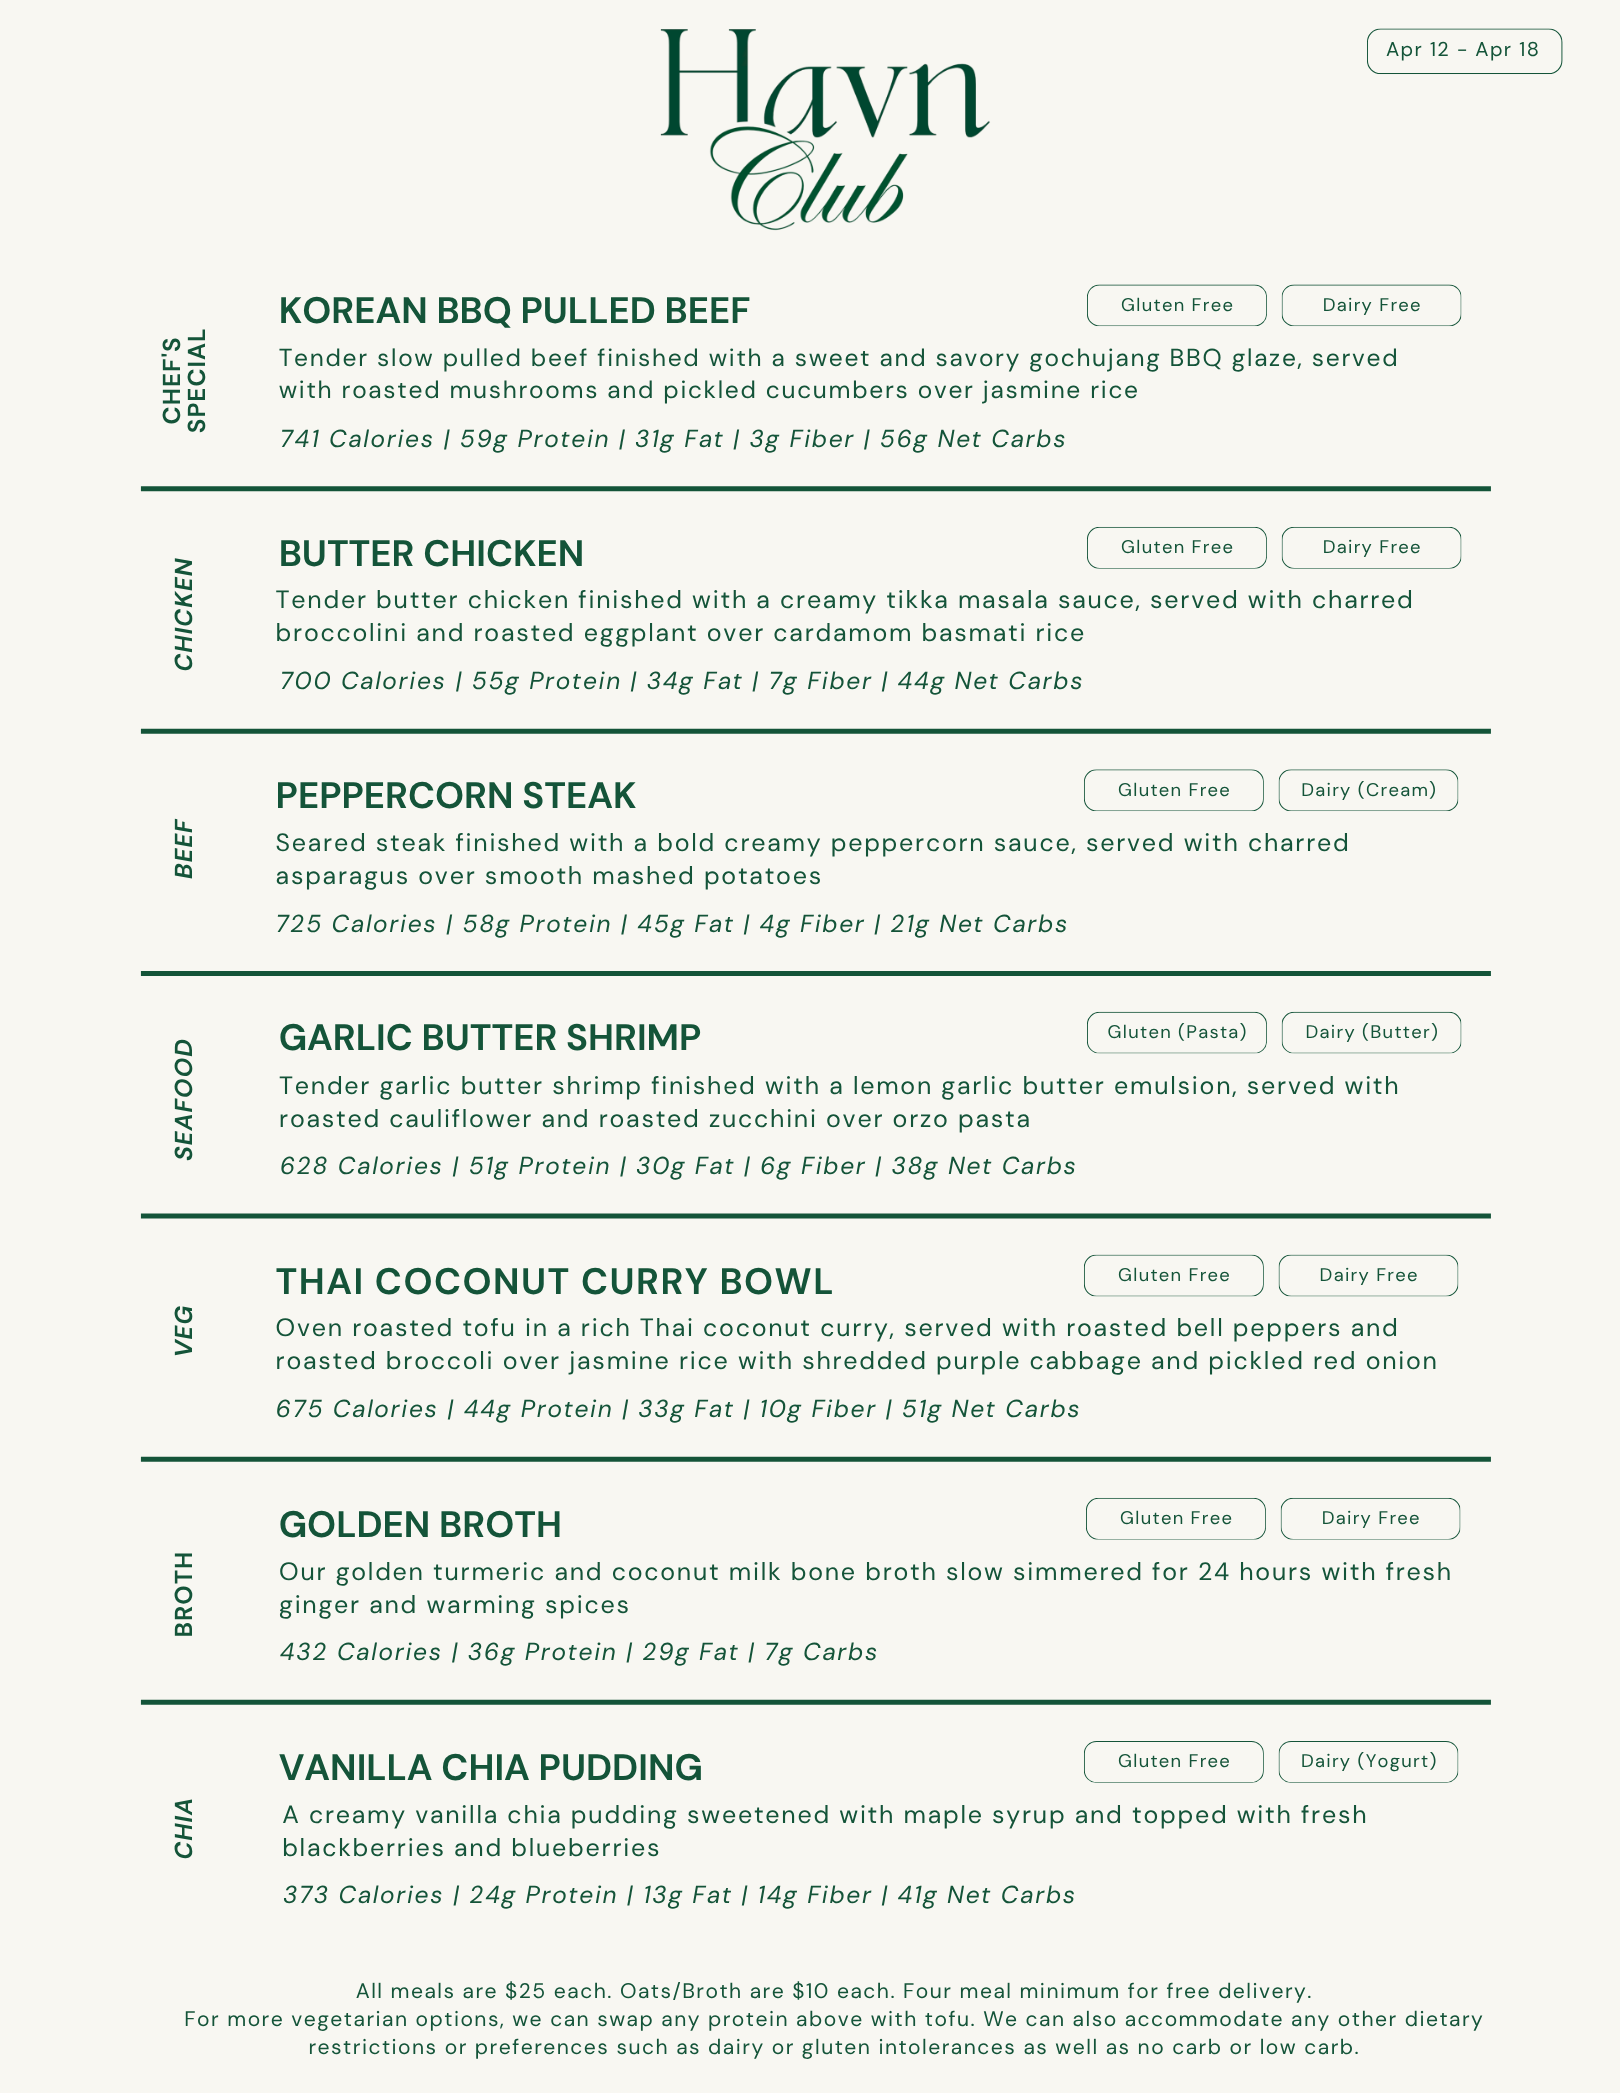
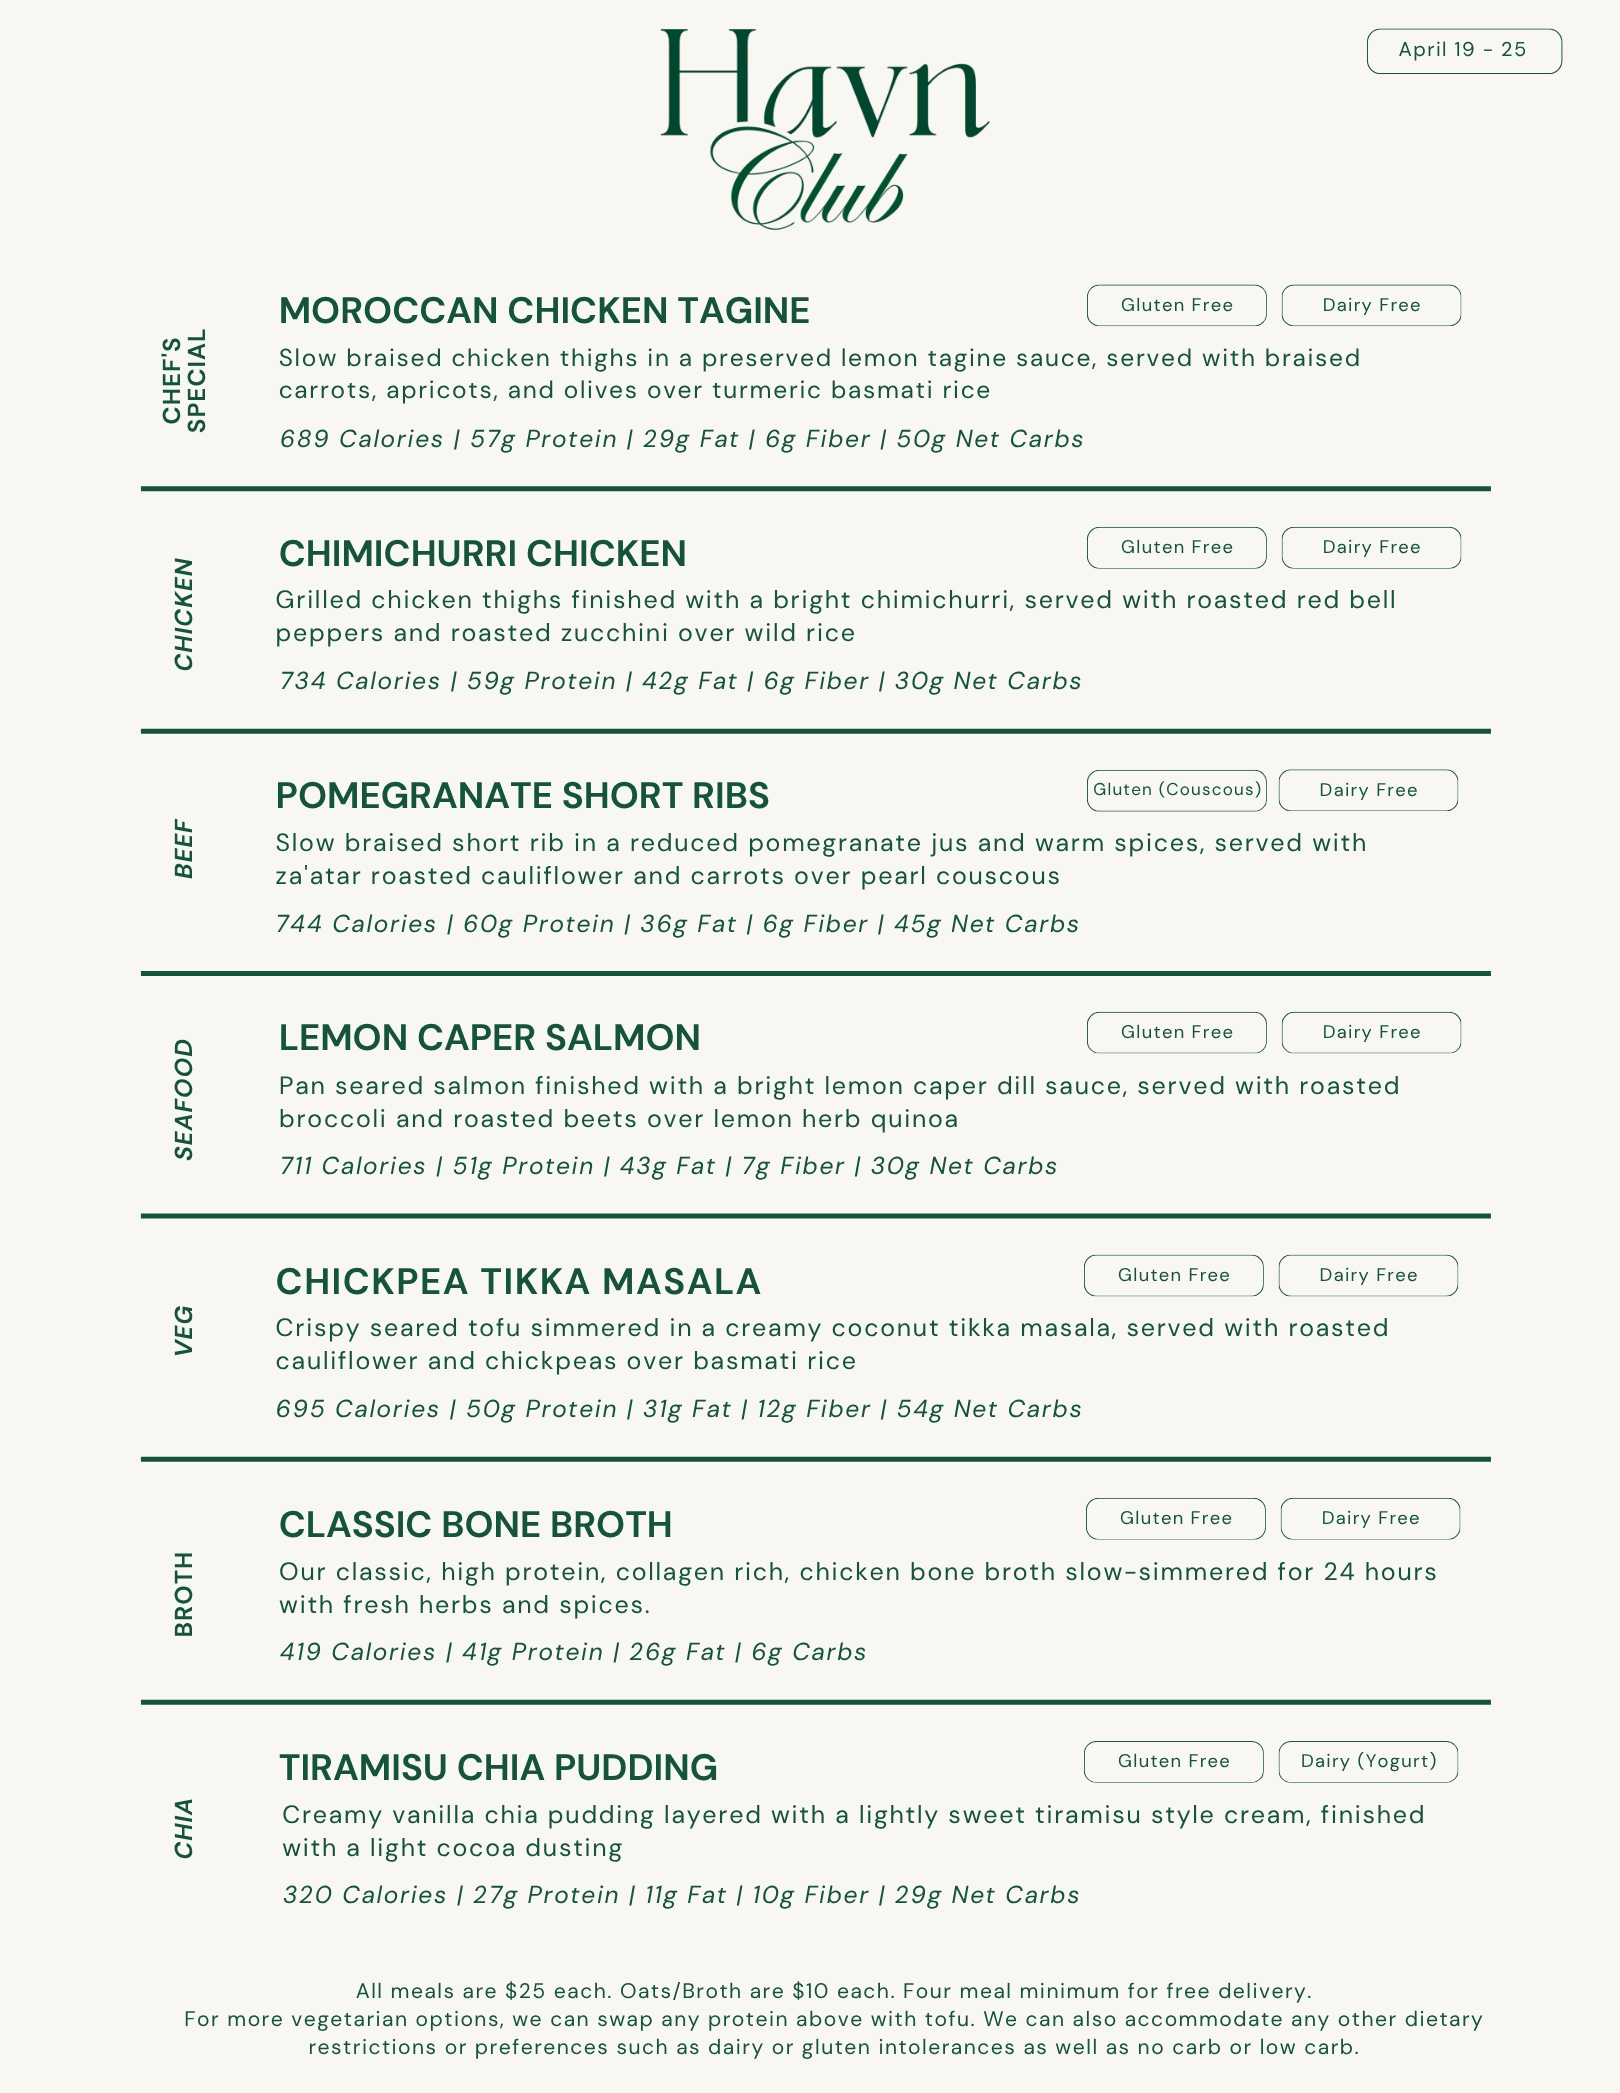
Update menu.havnclub.com for April 19th week
- Swap all 7 dishes: Moroccan Chicken Tagine (Chef), Chimichurri Chicken,
  Pomegranate Short Ribs, Lemon Caper Salmon, Chickpea Tikka Masala,
  Classic Bone Broth, Tiramisu Chia Pudding (Biscoff-free)
- Update date range header to April 19 - 25
- Update macros, descriptions, allergen tags in both DOM and JS data
- Replace menu-preview.jpg/.png with new Canva export
- Add Apr 19th Menu File folder with CSV + image

diff --git a/index.html b/index.html
@@ -1080,7 +1080,7 @@
             </div>
             <div class="header-info">
               <span class="header-name">Havn Club</span>
-              <span class="header-meta">Apr 12 – Apr 18</span>
+              <span class="header-meta">April 19 – 25</span>
             </div>
           </div>
           <button class="help-btn" id="helpBtn">?</button>
@@ -1109,13 +1109,13 @@
           <div class="menu-item" data-key="special">
             <div class="item-cat"><span>Special</span></div>
             <div class="item-info">
-              <h3 class="item-name">Korean BBQ Pulled Beef</h3>
-              <p class="item-desc">Slow Pulled Beef with a Gochujang BBQ Glaze and Roasted Mushrooms and Pickled Cucumbers over Jasmine Rice</p>
+              <h3 class="item-name">Moroccan Chicken Tagine</h3>
+              <p class="item-desc">Slow Braised Chicken Thighs with a Moroccan Tagine Sauce and Braised Carrots, Dried Apricots, and Green Olives over Turmeric Basmati Rice</p>
               <div class="item-bottom">
                 <div class="item-macros">
-                  <span>741 cal</span>
+                  <span>689 cal</span>
                   <span class="dot"></span>
-                  <span>59g protein</span>
+                  <span>57g protein</span>
                 </div>
                 <div class="stepper">
                   <button class="stepper-btn minus" disabled>−</button>
@@ -1129,13 +1129,13 @@
           <div class="menu-item" data-key="chicken">
             <div class="item-cat"><span>Chicken</span></div>
             <div class="item-info">
-              <h3 class="item-name">Butter Chicken</h3>
-              <p class="item-desc">Butter Chicken with a Creamy Tikka Masala Sauce and Charred Broccolini and Roasted Eggplant over Cardamom Basmati Rice</p>
+              <h3 class="item-name">Chimichurri Chicken</h3>
+              <p class="item-desc">Grilled Chicken Thighs with a Chimichurri and Roasted Red Bell Peppers and Zucchini over Wild Rice</p>
               <div class="item-bottom">
                 <div class="item-macros">
-                  <span>700 cal</span>
+                  <span>734 cal</span>
                   <span class="dot"></span>
-                  <span>55g protein</span>
+                  <span>59g protein</span>
                 </div>
                 <div class="stepper">
                   <button class="stepper-btn minus" disabled>−</button>
@@ -1149,13 +1149,13 @@
           <div class="menu-item" data-key="beef">
             <div class="item-cat"><span>Beef</span></div>
             <div class="item-info">
-              <h3 class="item-name">Peppercorn Steak</h3>
-              <p class="item-desc">Seared Steak with a Creamy Peppercorn Sauce and Charred Asparagus over Mashed Potatoes</p>
+              <h3 class="item-name">Pomegranate Short Ribs</h3>
+              <p class="item-desc">Slow Braised Short Rib with a Pomegranate Jus and Za'atar Roasted Cauliflower and Roasted Carrots over Herbed Pearl Couscous</p>
               <div class="item-bottom">
                 <div class="item-macros">
-                  <span>725 cal</span>
+                  <span>744 cal</span>
                   <span class="dot"></span>
-                  <span>58g protein</span>
+                  <span>60g protein</span>
                 </div>
                 <div class="stepper">
                   <button class="stepper-btn minus" disabled>−</button>
@@ -1169,11 +1169,11 @@
           <div class="menu-item" data-key="seafood">
             <div class="item-cat"><span>Seafood</span></div>
             <div class="item-info">
-              <h3 class="item-name">Garlic Butter Shrimp</h3>
-              <p class="item-desc">Garlic Butter Shrimp with a Lemon Garlic Butter Emulsion and Roasted Cauliflower and Roasted Zucchini over Orzo Pasta</p>
+              <h3 class="item-name">Lemon Caper Salmon</h3>
+              <p class="item-desc">Pan Seared Salmon with a Lemon Caper Dill Sauce and Roasted Broccoli and Roasted Beets over Lemon Herb Quinoa</p>
               <div class="item-bottom">
                 <div class="item-macros">
-                  <span>628 cal</span>
+                  <span>711 cal</span>
                   <span class="dot"></span>
                   <span>51g protein</span>
                 </div>
@@ -1189,13 +1189,13 @@
           <div class="menu-item" data-key="veg">
             <div class="item-cat"><span>Veg</span></div>
             <div class="item-info">
-              <h3 class="item-name">Thai Coconut Curry Bowl</h3>
-              <p class="item-desc">Oven roasted tofu in a rich Thai coconut curry, served with roasted bell peppers and roasted broccoli over jasmine rice with shredded purple cabbage and pickled red onion</p>
+              <h3 class="item-name">Chickpea Tikka Masala</h3>
+              <p class="item-desc">Seared Tofu in a Creamy Coconut Tikka Masala with Roasted Cauliflower and Chickpeas over Basmati Rice</p>
               <div class="item-bottom">
                 <div class="item-macros">
-                  <span>675 cal</span>
+                  <span>695 cal</span>
                   <span class="dot"></span>
-                  <span>44g protein</span>
+                  <span>50g protein</span>
                 </div>
                 <div class="stepper">
                   <button class="stepper-btn minus" disabled>−</button>
@@ -1216,13 +1216,13 @@
           <div class="menu-item" data-key="broth">
             <div class="item-cat"><span>Broth</span></div>
             <div class="item-info">
-              <h3 class="item-name">Golden Broth</h3>
-              <p class="item-desc">Our golden high protein and collagen rich turmeric and coconut milk bone broth slow simmered for 24 hours</p>
+              <h3 class="item-name">Classic Bone Broth</h3>
+              <p class="item-desc">Our classic high protein and collagen rich chicken bone broth slow simmered for 24 hours</p>
               <div class="item-bottom">
                 <div class="item-macros">
-                  <span>432 cal</span>
+                  <span>419 cal</span>
                   <span class="dot"></span>
-                  <span>36g protein</span>
+                  <span>41g protein</span>
                 </div>
                 <div class="stepper">
                   <button class="stepper-btn minus" disabled>−</button>
@@ -1236,13 +1236,13 @@
           <div class="menu-item" data-key="chia">
             <div class="item-cat"><span>Chia</span></div>
             <div class="item-info">
-              <h3 class="item-name">Vanilla Chia Pudding</h3>
-              <p class="item-desc">Vanilla chia pudding with fresh blackberries and blueberries</p>
+              <h3 class="item-name">Tiramisu Chia Pudding</h3>
+              <p class="item-desc">Tiramisu chia pudding with a sweet tiramisu style cream topped with a light cocoa dusting</p>
               <div class="item-bottom">
                 <div class="item-macros">
-                  <span>373 cal</span>
+                  <span>320 cal</span>
                   <span class="dot"></span>
-                  <span>24g protein</span>
+                  <span>27g protein</span>
                 </div>
                 <div class="stepper">
                   <button class="stepper-btn minus" disabled>−</button>
@@ -1408,58 +1408,58 @@
     // Data - Full descriptions for detail sheet
     const dishes = {
       special: {
-        name: 'Korean BBQ Pulled Beef',
+        name: 'Moroccan Chicken Tagine',
         category: 'special',
-        desc: 'Tender slow pulled beef finished with a sweet and savory gochujang BBQ glaze, served with roasted mushrooms and pickled cucumbers over jasmine rice for a bold, Korean inspired plate with a rich, smoky finish.',
-        macros: '741 cal · 59g protein · 31g fat · 3g fiber · 56g carbs',
+        desc: 'Slow braised chicken thighs seasoned with ras el hanout, finished with a preserved lemon tagine sauce, served with braised carrots, dried apricots, and green olives over turmeric basmati rice for a warm, aromatic Moroccan inspired plate with a sweet, briny finish.',
+        macros: '689 cal · 57g protein · 29g fat · 6g fiber · 50g carbs',
         tags: [{ text: 'Gluten Free', safe: true }, { text: 'Dairy Free', safe: true }],
         price: 25
       },
       chicken: {
-        name: 'Butter Chicken',
+        name: 'Chimichurri Chicken',
         category: 'chicken',
-        desc: 'Tender butter chicken finished with a creamy tikka masala sauce, served with charred broccolini and roasted eggplant over cardamom basmati rice for a warm, aromatic plate with a rich, comforting finish.',
-        macros: '700 cal · 55g protein · 34g fat · 7g fiber · 44g carbs',
+        desc: 'Grilled chicken thighs finished with a bright chimichurri, served with roasted red bell peppers and roasted zucchini over wild rice for a fresh, Argentinian inspired plate with a vibrant, garlicky finish.',
+        macros: '734 cal · 59g protein · 42g fat · 6g fiber · 30g carbs',
         tags: [{ text: 'Gluten Free', safe: true }, { text: 'Dairy Free', safe: true }],
         price: 25
       },
       beef: {
-        name: 'Peppercorn Steak',
+        name: 'Pomegranate Short Ribs',
         category: 'beef',
-        desc: 'Seared steak finished with a bold creamy peppercorn sauce, served with charred asparagus over smooth mashed potatoes for a classic, steakhouse inspired plate with a refined, peppery finish.',
-        macros: '725 cal · 58g protein · 45g fat · 4g fiber · 21g carbs',
-        tags: [{ text: 'Gluten Free', safe: true }, { text: 'Dairy (Cream)', safe: false }],
+        desc: 'Slow braised short rib in pomegranate molasses and warm spices, finished with a reduced pomegranate jus, served with za\'atar roasted cauliflower and roasted carrots over herbed pearl couscous for a rich, warmly spiced plate with a sweet, savory finish.',
+        macros: '744 cal · 60g protein · 36g fat · 6g fiber · 45g carbs',
+        tags: [{ text: 'Gluten (Couscous)', safe: false }, { text: 'Dairy Free', safe: true }],
         price: 25
       },
       seafood: {
-        name: 'Garlic Butter Shrimp',
+        name: 'Lemon Caper Salmon',
         category: 'seafood',
-        desc: 'Tender garlic butter shrimp finished with a lemon garlic butter emulsion, served with roasted cauliflower and roasted zucchini over orzo pasta for a bright, buttery seafood plate with a smooth, savory finish.',
-        macros: '628 cal · 51g protein · 30g fat · 6g fiber · 38g carbs',
-        tags: [{ text: 'Gluten (Pasta)', safe: false }, { text: 'Dairy (Butter)', safe: false }],
+        desc: 'Pan seared salmon finished with a bright lemon caper dill sauce, served with roasted broccoli and roasted beets over lemon herb quinoa for a clean, Mediterranean inspired plate with a fresh, citrus finish.',
+        macros: '711 cal · 51g protein · 43g fat · 7g fiber · 30g carbs',
+        tags: [{ text: 'Gluten Free', safe: true }, { text: 'Dairy Free', safe: true }],
         price: 25
       },
       veg: {
-        name: 'Thai Coconut Curry Bowl',
+        name: 'Chickpea Tikka Masala',
         category: 'veg',
-        desc: 'Oven roasted tofu in a rich Thai coconut curry, served with roasted bell peppers and roasted broccoli over jasmine rice with shredded purple cabbage and pickled red onion for a warm, fragrant plate with a creamy, aromatic finish.',
-        macros: '675 cal · 44g protein · 33g fat · 10g fiber · 51g carbs',
+        desc: 'Crispy seared tofu simmered in a creamy coconut tikka masala, served with roasted cauliflower and chickpeas over basmati rice for a warm, aromatic plate with a bold, comforting finish.',
+        macros: '695 cal · 50g protein · 31g fat · 12g fiber · 54g carbs',
         tags: [{ text: 'Gluten Free', safe: true }, { text: 'Dairy Free', safe: true }],
         price: 25
       },
       broth: {
-        name: 'Golden Broth',
+        name: 'Classic Bone Broth',
         category: 'broth',
-        desc: 'Our golden turmeric and coconut milk bone broth slow simmered for 24 hours with fresh ginger and warming spices.',
-        macros: '432 cal · 36g protein · 29g fat · 7g carbs',
+        desc: 'Our classic chicken bone broth slow simmered for 24 hours with fresh herbs and spices.',
+        macros: '419 cal · 41g protein · 26g fat · 6g carbs',
         tags: [{ text: 'Gluten Free', safe: true }, { text: 'Dairy Free', safe: true }],
         price: 10
       },
       chia: {
-        name: 'Vanilla Chia Pudding',
+        name: 'Tiramisu Chia Pudding',
         category: 'chia',
-        desc: 'A creamy vanilla chia pudding sweetened with maple syrup and topped with fresh blackberries and blueberries.',
-        macros: '373 cal · 24g protein · 13g fat · 14g fiber · 41g carbs',
+        desc: 'Creamy vanilla chia pudding layered with a lightly sweet tiramisu style cream, finished with a light cocoa dusting for a rich, dessert inspired treat.',
+        macros: '320 cal · 27g protein · 11g fat · 10g fiber · 29g carbs',
         tags: [{ text: 'Gluten Free', safe: true }, { text: 'Dairy (Yogurt)', safe: false }],
         price: 10
       }
